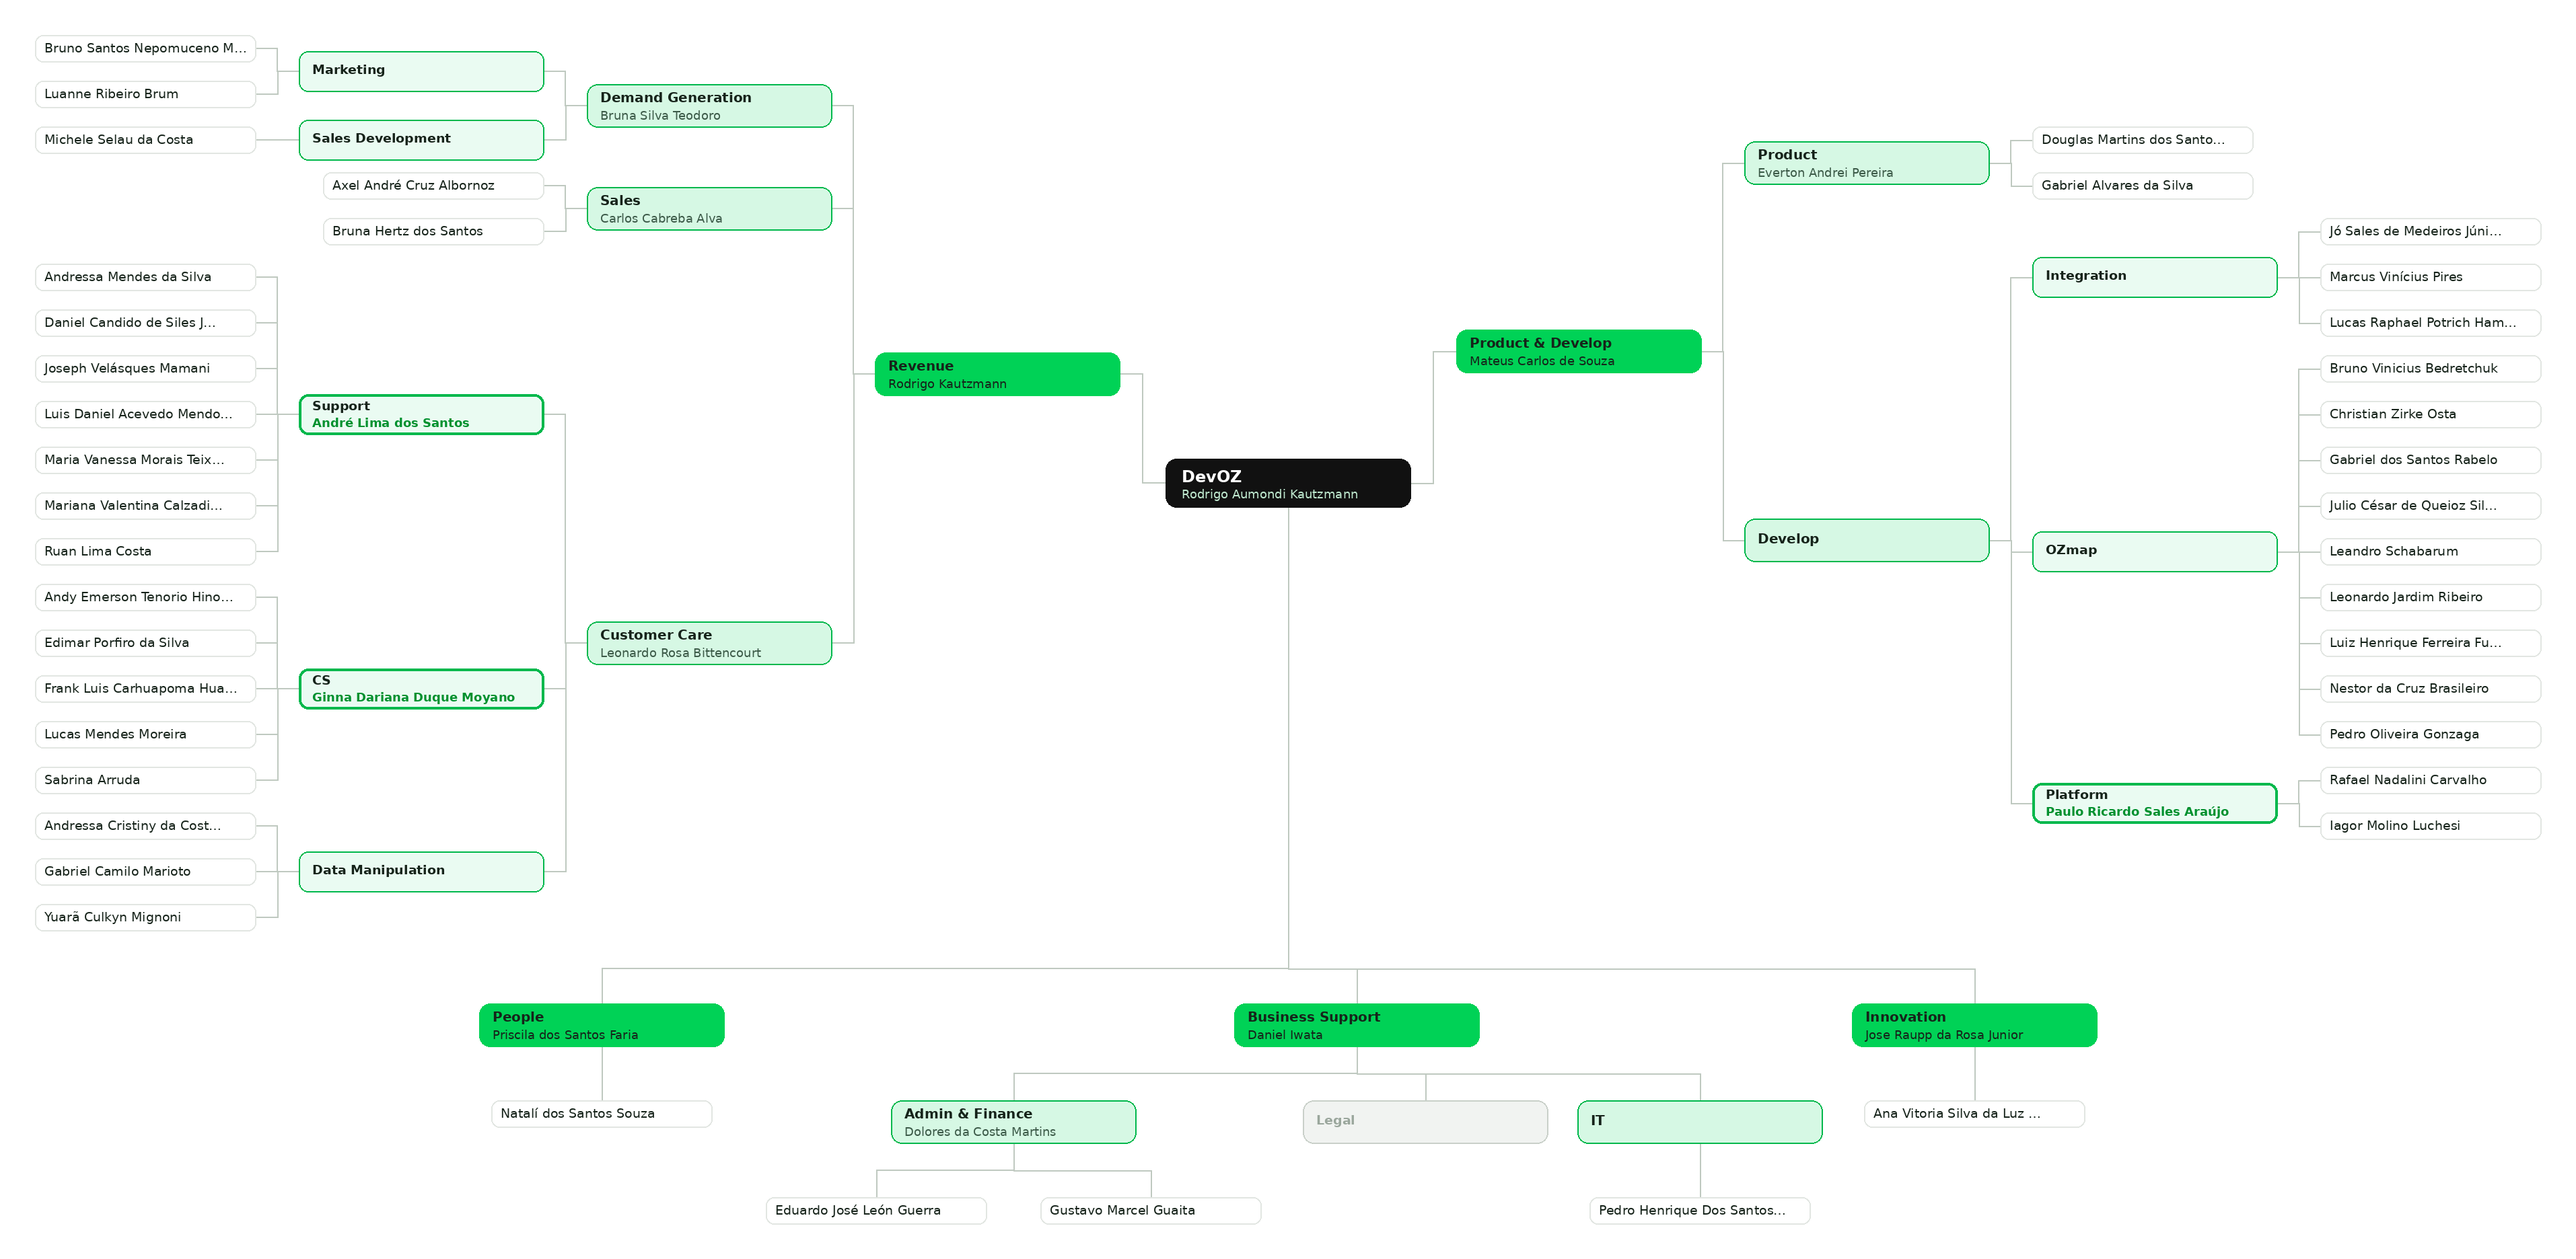
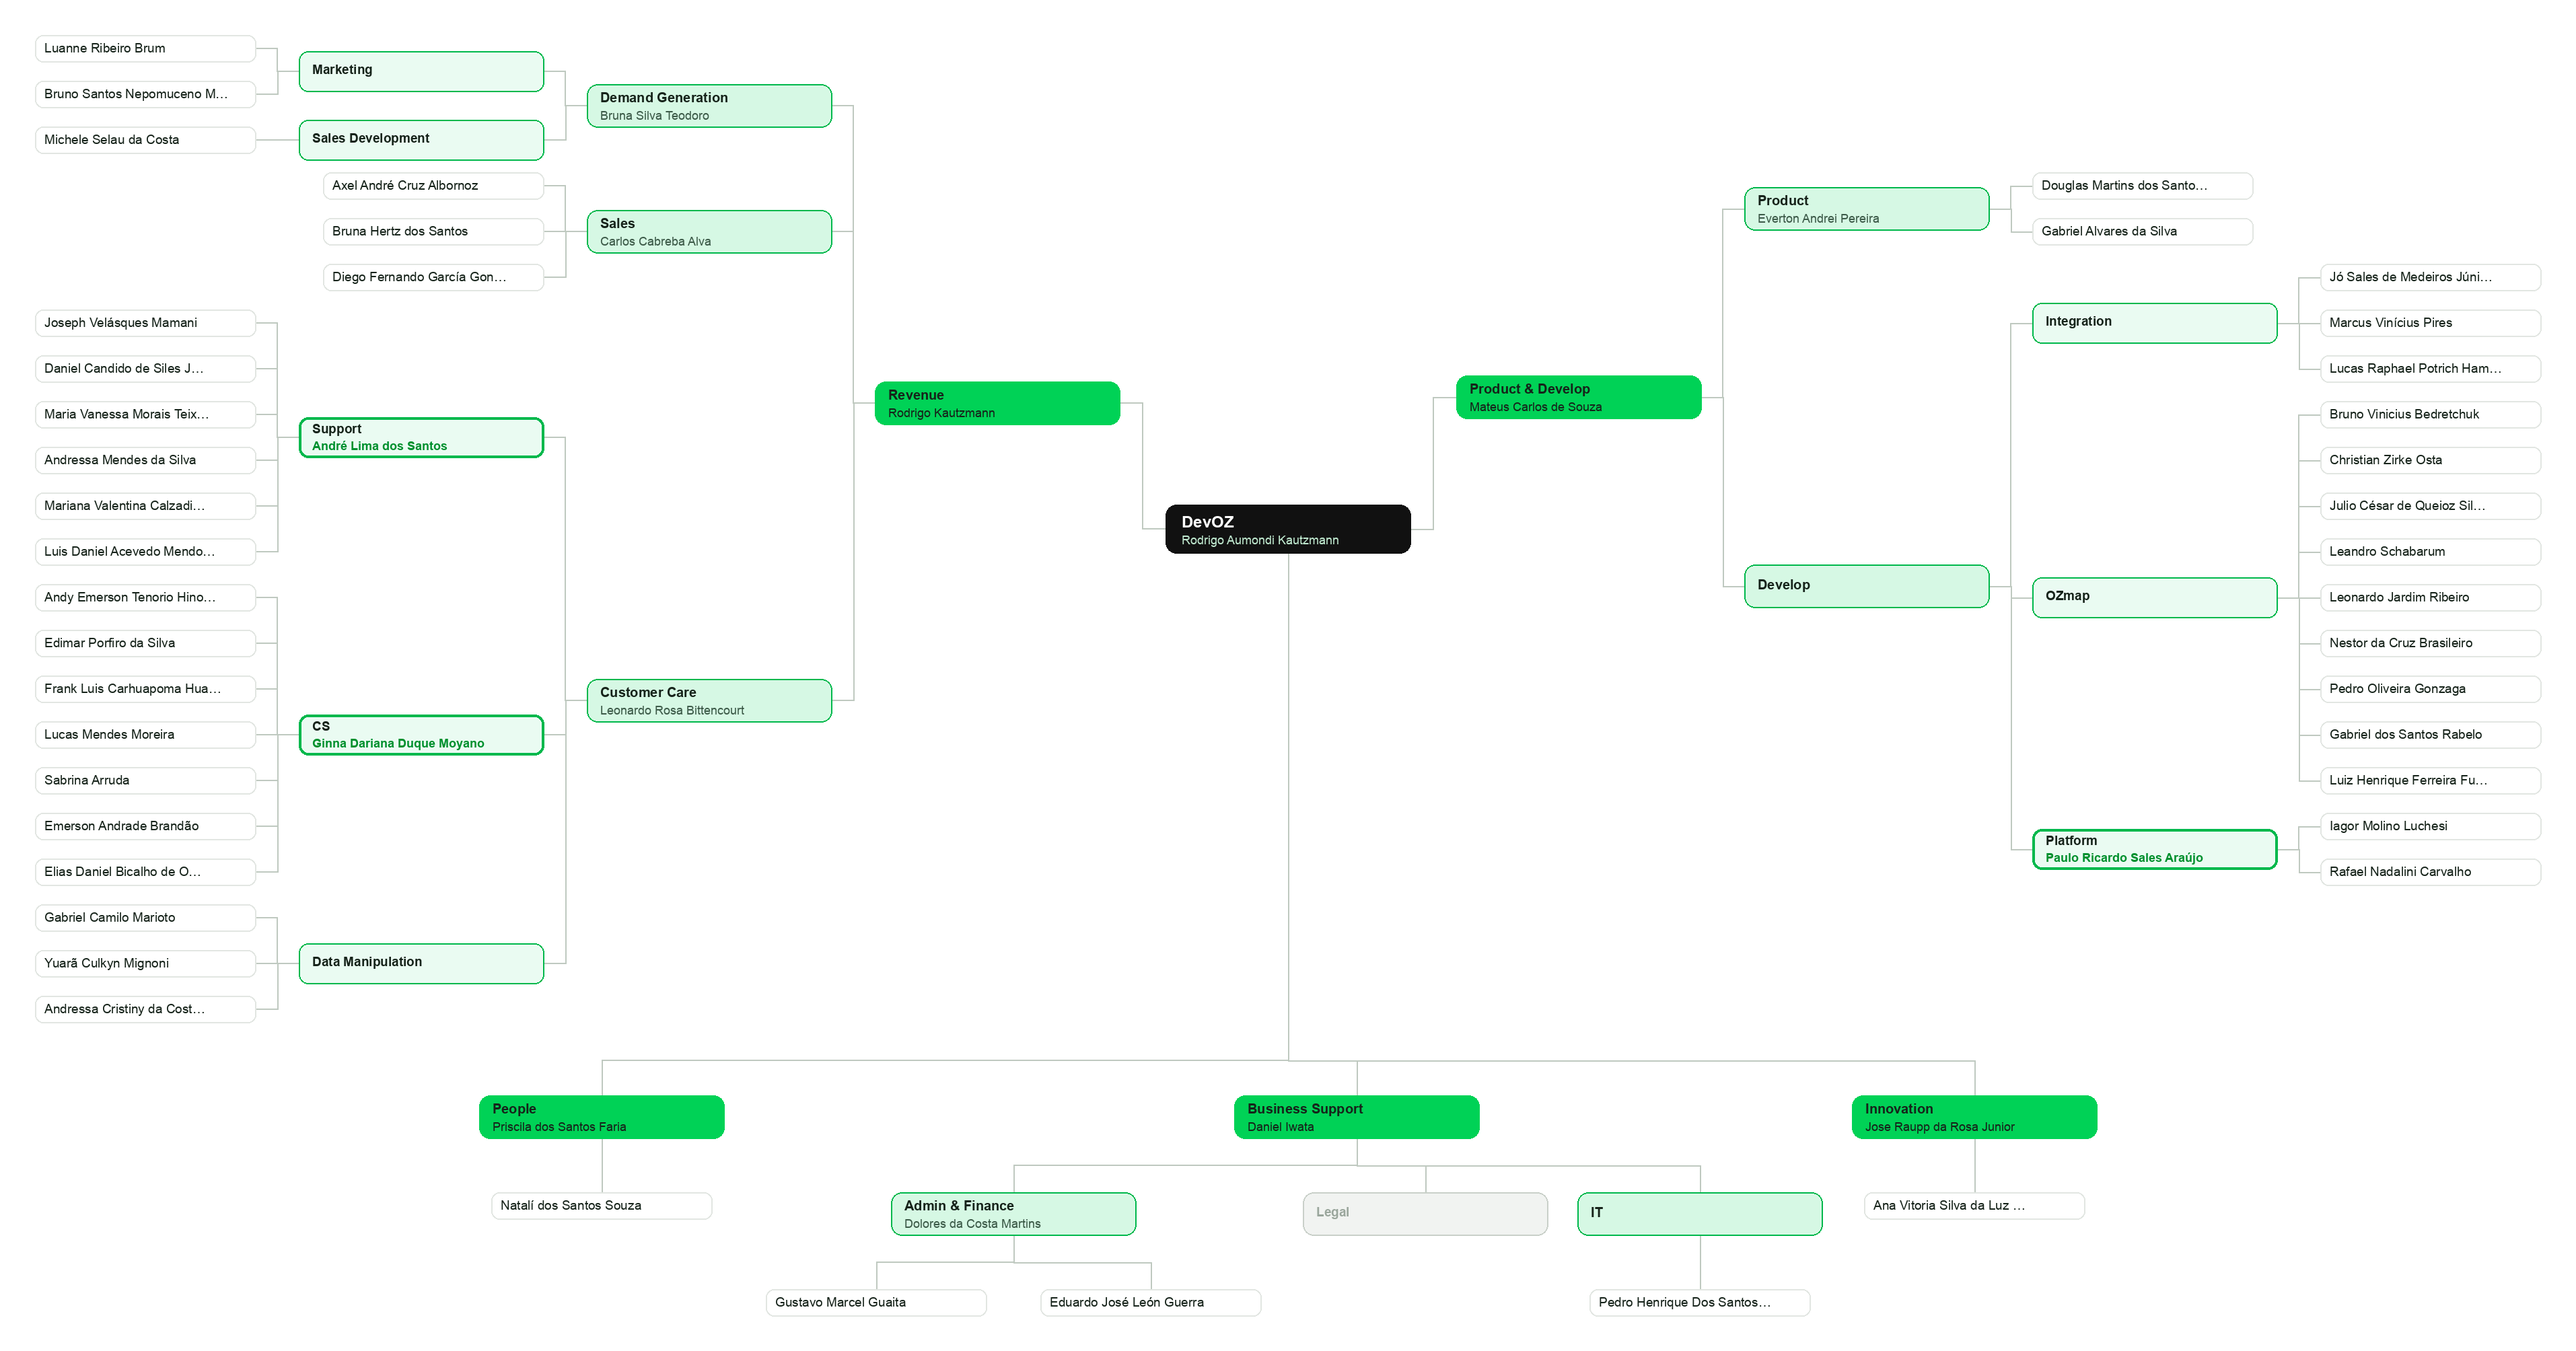
intranet: metadados de geração em expand colapsado; conteúdo primeiro

diff --git a/scripts/org_chart.py b/scripts/org_chart.py
@@ -313,13 +313,18 @@ def confluence_embed(base, auth, pid, fname, conf, n):
     base = base.rstrip("/"); today = datetime.date.today().strftime("%d/%m/%Y")
     intro = conf.get("org_page_intro_storage", ""); footer = conf.get("org_page_footer_storage", "")
     bastidores = conf.get("bastidores_url", conf.get("catalogo_url", ""))
-    # Bloco padrão DevOZ (1 linha): gerado automaticamente + fonte + link "como funciona" (Bastidores)
-    panel = ('<ac:structured-macro ac:name="info"><ac:rich-text-body><p>'
-             f'🤖 Organograma gerado automaticamente em {today} a partir do <code>taxonomy.json</code> '
-             '(estrutura) e do Feedz (pessoas) — não edite à mão · '
-             f'<a href="{bastidores}">como funciona →</a></p></ac:rich-text-body></ac:structured-macro>')
+    # Padrão DevOZ: metadados de geração num expand COLAPSADO no fim da página (conteúdo primeiro)
+    panel = ('<ac:structured-macro ac:name="expand">'
+             '<ac:parameter ac:name="title">🤖 Organograma gerado automaticamente — como funciona</ac:parameter>'
+             '<ac:rich-text-body>'
+             '<p>Gerado a partir do <code>taxonomy.json</code> (estrutura) e do Feedz (pessoas e líderes). '
+             f'<strong>Não edite à mão</strong> — edições são sobrescritas. Última atualização: {today}.</p>'
+             '<p><strong>Automação:</strong> <code>scripts/org_chart.py</code> no <code>devoz-automations</code> · '
+             '<strong>Para alterar:</strong> estrutura via PR no <code>taxonomy.json</code>; pessoas no Feedz · '
+             f'<a href="{bastidores}">Bastidores completos →</a></p>'
+             '</ac:rich-text-body></ac:structured-macro>')
     image = f'<p><ac:image><ri:attachment ri:filename="{fname}" /></ac:image></p>'
-    body = intro + panel + image + footer
+    body = intro + image + footer + panel
     g = requests.get(f"{base}/rest/api/content/{pid}", params={"expand": "version"}, auth=auth, timeout=30); g.raise_for_status()
     cur = g.json()
     payload = {"id": pid, "type": "page", "title": cur["title"],

diff --git a/scripts/taxonomy_confluence_sync.py b/scripts/taxonomy_confluence_sync.py
@@ -61,11 +61,18 @@ def render_html(tax: dict) -> str:
 
     outros_txt = ", ".join(f"<em>{escape(t['time'])}</em>" for t in outros)
 
-    # Bloco padrão DevOZ (1 linha): gerado automaticamente + fonte + link "como funciona" (Bastidores)
+    # Padrão DevOZ: metadados de geração num expand COLAPSADO no topo (1 linha fechada)
     return (
-        '<ac:structured-macro ac:name="info" ac:schema-version="1"><ac:rich-text-body>'
-        f'<p>🤖 Gerado automaticamente em {agora} a partir do <a href="{TAXONOMY_URL}">taxonomy.json</a> '
-        f'— não edite à mão · <a href="{BASTIDORES_URL}">como funciona →</a></p>'
+        '<ac:structured-macro ac:name="expand">'
+        '<ac:parameter ac:name="title">🤖 Página gerada automaticamente — como funciona</ac:parameter>'
+        "<ac:rich-text-body>"
+        f'<p>Gerada a partir do <a href="{TAXONOMY_URL}">taxonomy.json</a> no '
+        "<code>devoz-automations</code>. <strong>Não edite à mão</strong> — edições são "
+        f"sobrescritas. Última atualização: {agora}.</p>"
+        "<p><strong>Quando roda:</strong> a cada mudança no <code>main</code> · "
+        "<strong>Automação:</strong> <code>scripts/taxonomy_confluence_sync.py</code> · "
+        "<strong>Para alterar:</strong> PR no <code>taxonomy.json</code> · "
+        f'<a href="{BASTIDORES_URL}">Bastidores completos →</a></p>'
         "</ac:rich-text-body></ac:structured-macro>"
         "<p>Nomes de Áreas, Times e Grupos são <strong>sempre em inglês</strong>, conforme o "
         "organograma oficial. A pessoa pertence a um <strong>Time</strong>; o "
